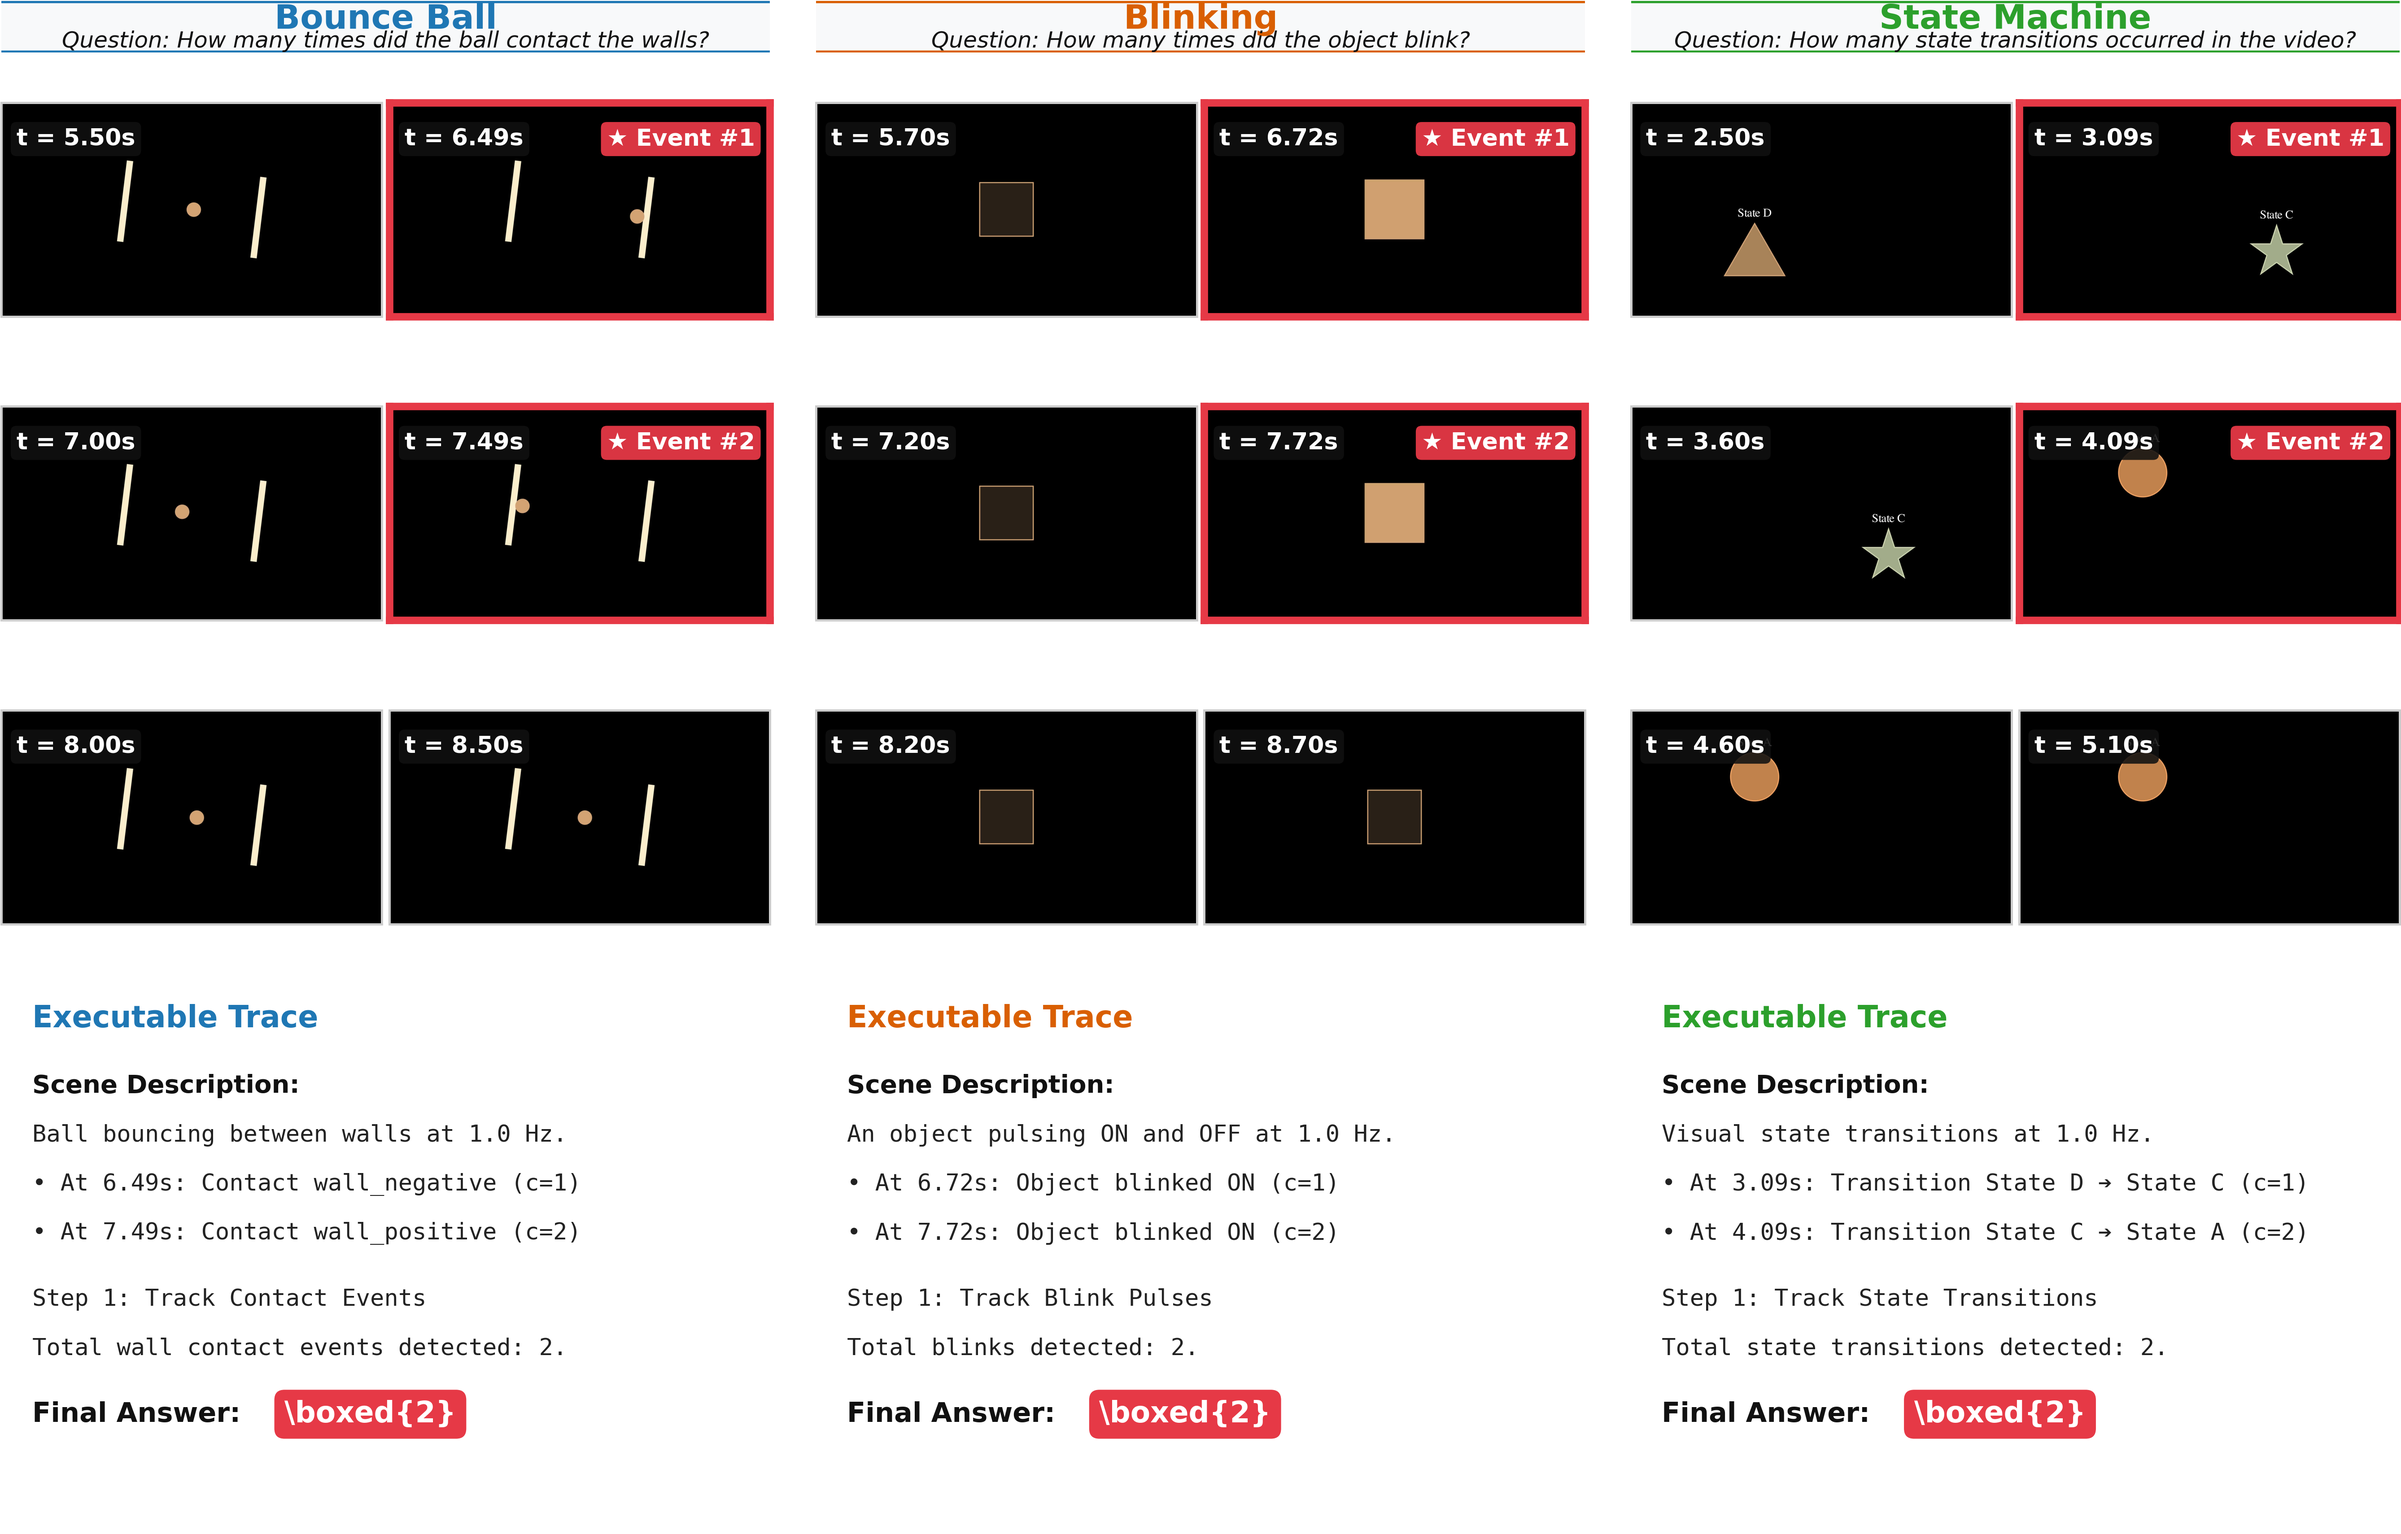
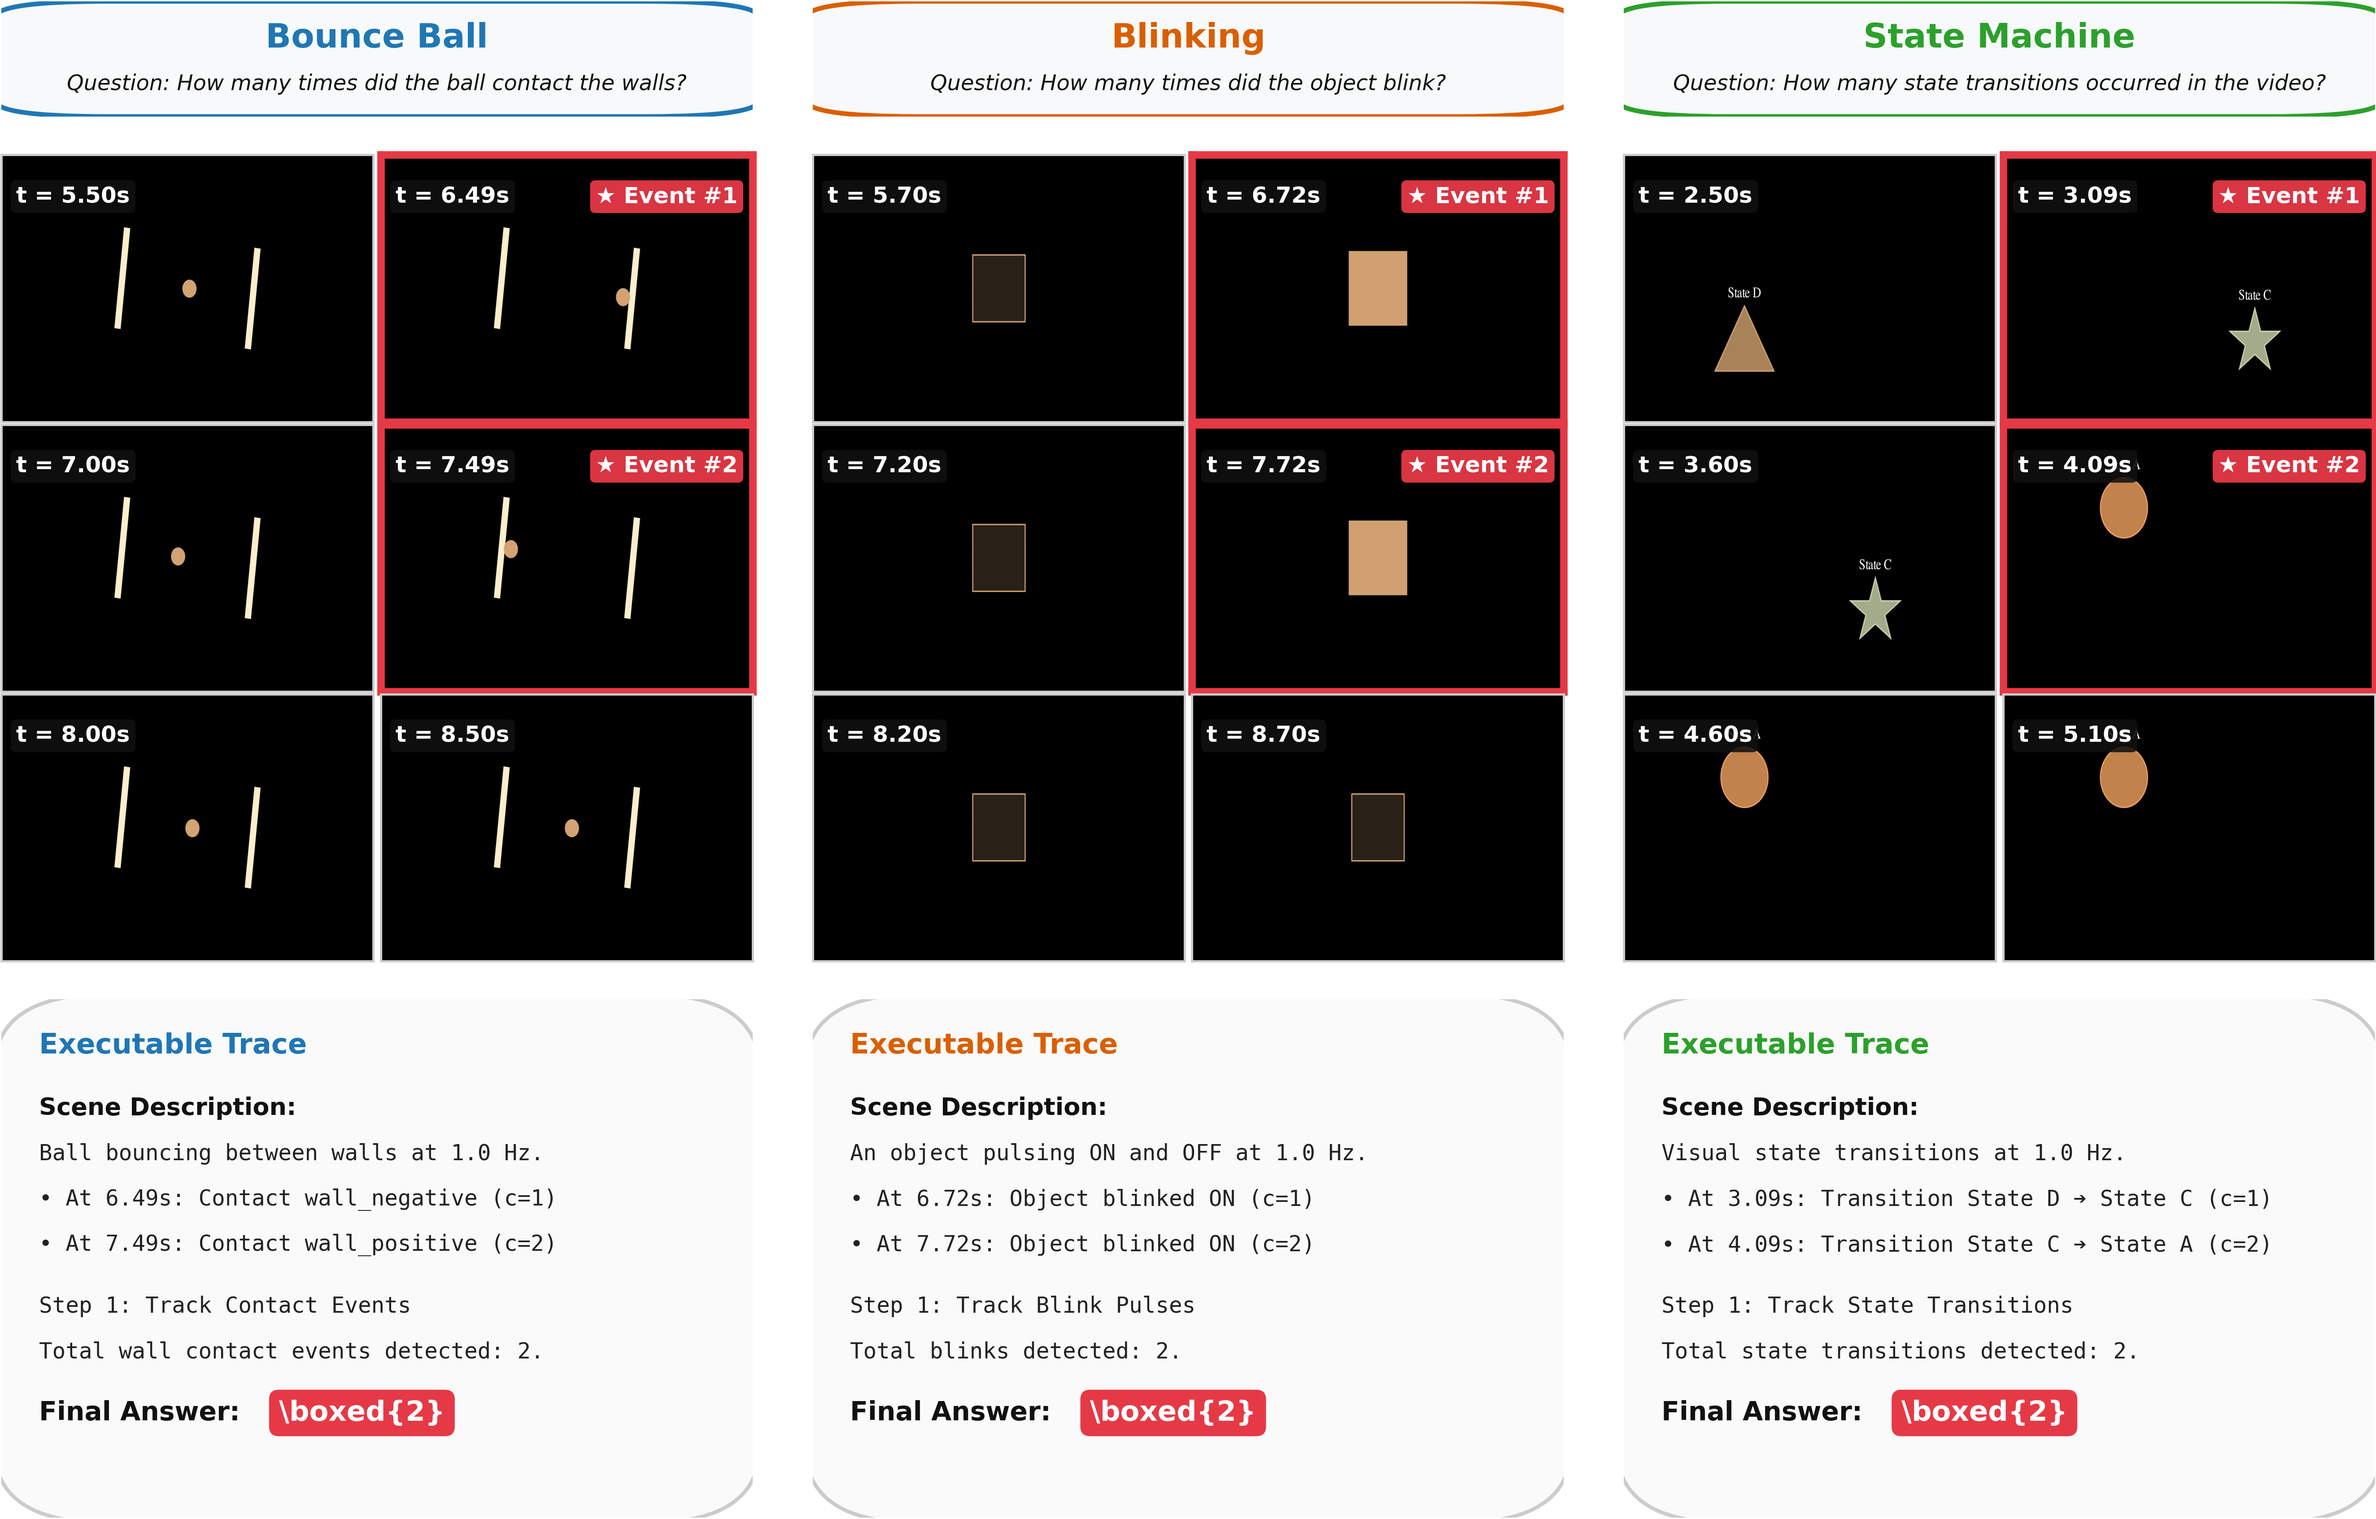
Eliminate inter-row frame whitespace with aspect=auto and wrap top/bottom panels in rounded rectangle boxes

diff --git a/scripts/make_dataset_overview_figure.py b/scripts/make_dataset_overview_figure.py
@@ -98,42 +98,43 @@ def build_dataset_overview_figure(output_path: Path):
     plt.rcParams["figure.facecolor"] = "white"
     plt.rcParams["axes.facecolor"] = "white"
 
-    # Widescreen 18x11.5 layout focusing heavily on frame size & trace legibility with ZERO wasted space
+    # Widescreen 18x12 figure layout matching exact 16:9 frame aspect ratios for ZERO frame whitespace
     fig = plt.figure(figsize=(18, 11.5), dpi=300, facecolor="white")
-    col_gs = gridspec.GridSpec(1, 3, figure=fig, wspace=0.06, left=0.005, right=0.995, top=0.995, bottom=0.005)
+    col_gs = gridspec.GridSpec(1, 3, figure=fig, wspace=0.08, left=0.01, right=0.99, top=0.99, bottom=0.01)
 
     for c_idx, tinfo in enumerate(tasks_info):
         col_sub = gridspec.GridSpecFromSubplotSpec(3, 1, subplot_spec=col_gs[c_idx],
-                                                   height_ratios=[0.35, 6.2, 3.8], hspace=0.01)
+                                                   height_ratios=[0.8, 5.6, 3.6], hspace=0.08)
 
-        # --- 1. Header Box (Clean Title & Question Only) ---
+        # --- 1. Header Box in Rounded Rectangle ---
         ax_header = fig.add_subplot(col_sub[0])
         ax_header.axis("off")
 
-        header_patch = FancyBboxPatch((0.0, 0.0), 1.0, 1.0, transform=ax_header.transAxes,
+        header_patch = FancyBboxPatch((0.01, 0.02), 0.98, 0.96, transform=ax_header.transAxes,
                                       facecolor="#f8f9fa", edgecolor=tinfo["color"], linewidth=2.5,
-                                      boxstyle=BoxStyle("Round", pad=0.005))
+                                      boxstyle=BoxStyle("Round", pad=0.02, rounding_size=0.15))
         ax_header.add_patch(header_patch)
 
-        ax_header.text(0.5, 0.65, tinfo["domain"], transform=ax_header.transAxes,
+        ax_header.text(0.5, 0.68, tinfo["domain"], transform=ax_header.transAxes,
                        fontsize=18, fontweight="bold", color=tinfo["color"], ha="center", va="center")
-        ax_header.text(0.5, 0.22, tinfo["question"], transform=ax_header.transAxes,
-                       fontsize=12, fontstyle="italic", color="#111111", ha="center", va="center")
+        ax_header.text(0.5, 0.28, tinfo["question"], transform=ax_header.transAxes,
+                       fontsize=11.5, fontstyle="italic", color="#111111", ha="center", va="center")
 
-        # --- 2. 6 Frames arranged in 3 Rows of 2 Frames Each (Zero gaps!) ---
+        # --- 2. 6 Frames arranged in 3 Rows x 2 Cols (Zero frame aspect gap!) ---
         extracted = [(ts, extract_frame_at_timestamp(tinfo["video_path"], ts)) for ts in tinfo["sample_ts"]]
 
         ax_frames_container = fig.add_subplot(col_sub[1])
         ax_frames_container.axis("off")
 
-        frame_rows_gs = gridspec.GridSpecFromSubplotSpec(3, 2, subplot_spec=col_sub[1], hspace=0.0, wspace=0.02)
+        # Tight hspace (0.01) and wspace (0.02)
+        frame_rows_gs = gridspec.GridSpecFromSubplotSpec(3, 2, subplot_spec=col_sub[1], hspace=0.01, wspace=0.02)
 
         for k, (ts, img) in enumerate(extracted):
             r_idx = k // 2
             c_idx_sub = k % 2
 
             ax_f = fig.add_subplot(frame_rows_gs[r_idx, c_idx_sub])
-            ax_f.imshow(img)
+            ax_f.imshow(img, aspect="auto") # aspect='auto' eliminates ALL whitespace inside subplot!
             ax_f.set_xticks([])
             ax_f.set_yticks([])
 
@@ -147,47 +148,47 @@ def build_dataset_overview_figure(output_path: Path):
                 spine.set_edgecolor(border_color)
                 spine.set_linewidth(border_width)
 
-            # Top timestamp badge (Larger text!)
-            ax_f.text(0.04, 0.80, f"t = {ts:.2f}s", transform=ax_f.transAxes,
-                      fontsize=12.5, fontweight="bold", color="white",
+            # Top timestamp badge
+            ax_f.text(0.04, 0.82, f"t = {ts:.2f}s", transform=ax_f.transAxes,
+                      fontsize=12.0, fontweight="bold", color="white",
                       bbox=dict(boxstyle="round,pad=0.25", facecolor="#111111", edgecolor="none", alpha=0.88))
 
-            # Event badge (Larger text!)
+            # Event badge
             if is_event:
-                ax_f.text(0.96, 0.80, f"★ Event #{event_num}", transform=ax_f.transAxes,
-                          fontsize=12.5, fontweight="bold", color="white", ha="right",
+                ax_f.text(0.96, 0.82, f"★ Event #{event_num}", transform=ax_f.transAxes,
+                          fontsize=12.0, fontweight="bold", color="white", ha="right",
                           bbox=dict(boxstyle="round,pad=0.25", facecolor="#e63946", edgecolor="none", alpha=0.95))
 
-        # --- 3. Cleaned Executable Trace Box (Much larger font sizes, no MORSE, no ###) ---
+        # --- 3. Trace Box wrapped in Rounded Rectangle ---
         ax_trace = fig.add_subplot(col_sub[2])
         ax_trace.axis("off")
 
-        trace_patch = FancyBboxPatch((0.0, 0.0), 1.0, 1.0, transform=ax_trace.transAxes,
-                                     facecolor="#ffffff", edgecolor="#bbbbbb", linewidth=1.8,
-                                     boxstyle=BoxStyle("Round", pad=0.005))
+        trace_patch = FancyBboxPatch((0.01, 0.01), 0.98, 0.98, transform=ax_trace.transAxes,
+                                     facecolor="#fafafa", edgecolor="#cccccc", linewidth=2.0,
+                                     boxstyle=BoxStyle("Round", pad=0.02, rounding_size=0.15))
         ax_trace.add_patch(trace_patch)
 
-        ax_trace.text(0.04, 0.92, "Executable Trace", transform=ax_trace.transAxes,
-                      fontsize=16.0, fontweight="bold", color=tinfo["color"], va="center")
+        ax_trace.text(0.05, 0.91, "Executable Trace", transform=ax_trace.transAxes,
+                      fontsize=15.0, fontweight="bold", color=tinfo["color"], va="center")
 
-        y_pos = 0.80
+        y_pos = 0.79
         for line in tinfo["cot_lines"]:
             if not line:
                 y_pos -= 0.03
                 continue
 
             if line.endswith(":"):
-                ax_trace.text(0.04, y_pos, line, transform=ax_trace.transAxes,
-                              fontsize=13.5, fontweight="bold", color="#111111", va="center")
+                ax_trace.text(0.05, y_pos, line, transform=ax_trace.transAxes,
+                              fontsize=13.0, fontweight="bold", color="#111111", va="center")
             elif line.startswith("Final Answer:"):
-                ax_trace.text(0.04, y_pos, "Final Answer:", transform=ax_trace.transAxes,
-                              fontsize=14.5, fontweight="bold", color="#111111", va="center")
+                ax_trace.text(0.05, y_pos, "Final Answer:", transform=ax_trace.transAxes,
+                              fontsize=14.0, fontweight="bold", color="#111111", va="center")
                 ax_trace.text(0.48, y_pos, "\\boxed{2}", transform=ax_trace.transAxes,
-                              fontsize=15.5, fontweight="bold", color="white", va="center", ha="center",
+                              fontsize=15.0, fontweight="bold", color="white", va="center", ha="center",
                               bbox=dict(boxstyle="round,pad=0.35", facecolor="#e63946", edgecolor="none"))
             else:
-                ax_trace.text(0.04, y_pos, line, transform=ax_trace.transAxes,
-                              fontsize=12.5, color="#222222", fontfamily="monospace", va="center")
+                ax_trace.text(0.05, y_pos, line, transform=ax_trace.transAxes,
+                              fontsize=11.8, color="#222222", fontfamily="monospace", va="center")
 
             y_pos -= 0.088
 
